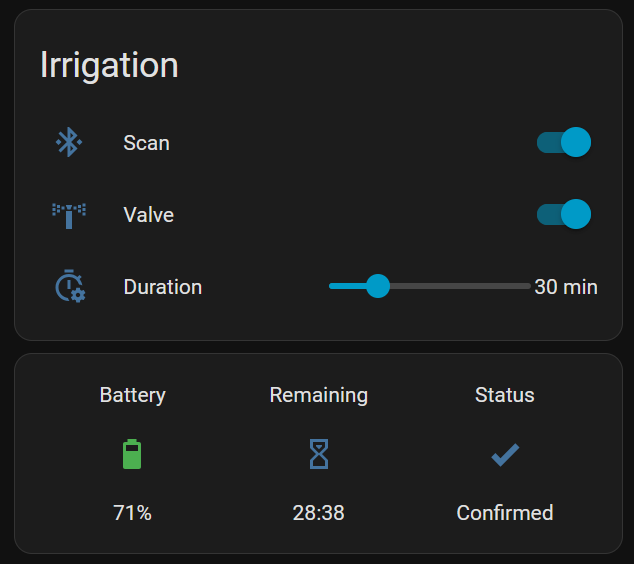
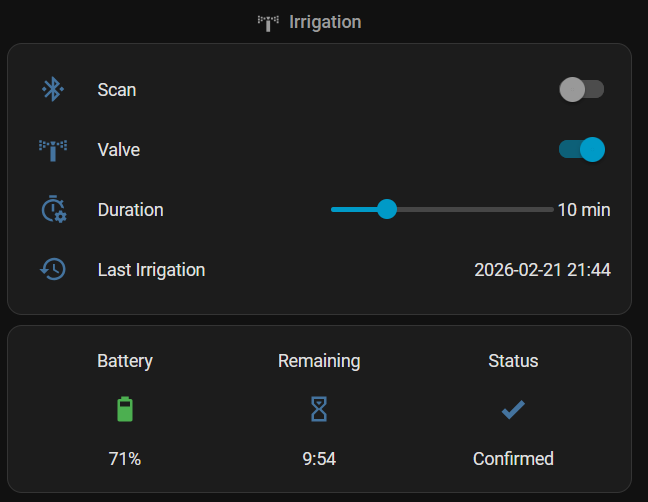
last duration

diff --git a/custom_components/galcon_bt/coordinator.py b/custom_components/galcon_bt/coordinator.py
@@ -44,6 +44,12 @@ class GalconCoordinator(DataUpdateCoordinator[GalconStatus]):
         self._base_interval = scan_interval or DEFAULT_SCAN_INTERVAL
         self.duration_minutes: int = 20  # overridden by NumberEntity on setup
 
+        # Last irrigation tracking
+        self.last_irrigation_start: datetime | None = None
+        self.last_irrigation_duration_min: int | None = None
+        self._current_irrigation_start: datetime | None = None
+        self._current_irrigation_duration: int = 0
+
         # Operation state tracking for UI feedback
         self.operation_state: OperationState = OperationState.IDLE
         self._state_listeners: list = []
@@ -131,6 +137,24 @@ class GalconCoordinator(DataUpdateCoordinator[GalconStatus]):
                 f"Cannot reach Galcon device (no cached state): {err}"
             ) from err
 
+    def _record_irrigation_start(self, duration_minutes: int) -> None:
+        """Record the start of an irrigation session."""
+        self._current_irrigation_start = dt_util.now()
+        self._current_irrigation_duration = duration_minutes
+
+    def _record_irrigation_end(self) -> None:
+        """Finalize the last irrigation record."""
+        if self._current_irrigation_start is not None:
+            self.last_irrigation_start = self._current_irrigation_start
+            self.last_irrigation_duration_min = self._current_irrigation_duration
+            self._current_irrigation_start = None
+            _LOGGER.info(
+                "Galcon %s: irrigation recorded — %s for %d min",
+                self.device.address,
+                self.last_irrigation_start.strftime("%Y-%m-%d %H:%M"),
+                self.last_irrigation_duration_min,
+            )
+
     async def async_open_valve(
         self, hours: int = 0, minutes: int = 0, seconds: int = 0
     ) -> None:
@@ -156,6 +180,7 @@ class GalconCoordinator(DataUpdateCoordinator[GalconStatus]):
                     raw=self._last_known_status.raw if self._last_known_status else b"",
                     battery_level=self._last_known_status.battery_level if self._last_known_status else None,
                 )
+            self._record_irrigation_start(hours * 60 + minutes + (1 if seconds else 0))
             self.async_set_updated_data(self._last_known_status)
         except (ConnectionError, Exception):
             self._set_operation_state(OperationState.ERROR)
@@ -168,6 +193,7 @@ class GalconCoordinator(DataUpdateCoordinator[GalconStatus]):
             self._set_operation_state(OperationState.CLOSING)
             real_status = await self.device.close_valve()
             self._set_operation_state(OperationState.CONFIRMED)
+            self._record_irrigation_end()
             if real_status:
                 self._last_known_status = real_status
             else:
@@ -195,6 +221,7 @@ class GalconCoordinator(DataUpdateCoordinator[GalconStatus]):
             "Galcon %s: irrigation timer expired — marking valve closed and disabling scanning",
             self.device.address,
         )
+        self._record_irrigation_end()
         self._last_known_status = GalconStatus(
             valve_open=False,
             manual_open=False,

diff --git a/custom_components/galcon_bt/sensor.py b/custom_components/galcon_bt/sensor.py
@@ -49,6 +49,7 @@ async def async_setup_entry(
         GalconOperationSensor(coordinator, name, address),
         GalconTimeRemainingSensor(coordinator, name, address),
         GalconBatterySensor(coordinator, name, address),
+        GalconLastIrrigationSensor(coordinator, name, address),
     ])
 
 
@@ -292,3 +293,56 @@ class GalconBatterySensor(CoordinatorEntity[GalconCoordinator], SensorEntity):
     def available(self) -> bool:
         """Available once we have at least one battery reading."""
         return self._cached_battery is not None
+
+
+class GalconLastIrrigationSensor(CoordinatorEntity[GalconCoordinator], SensorEntity):
+    """Sensor showing when the last irrigation occurred and for how long.
+
+    Displays the date/time of the most recent irrigation session.
+    Duration is available as an extra attribute.
+    """
+
+    _attr_has_entity_name = True
+    _attr_icon = "mdi:history"
+
+    def __init__(
+        self,
+        coordinator: GalconCoordinator,
+        name: str,
+        address: str,
+    ) -> None:
+        """Initialize the last irrigation sensor."""
+        super().__init__(coordinator)
+        self._address = address
+        self._attr_name = "Last Irrigation"
+        self._attr_unique_id = (
+            f"galcon_bt_{address.replace(':', '_').lower()}_last_irrigation"
+        )
+        self._attr_device_info = {
+            "identifiers": {(DOMAIN, address)},
+            "name": name,
+            "manufacturer": "Galcon",
+            "model": "9001BT",
+            "connections": {("bluetooth", address)},
+        }
+
+    @property
+    def native_value(self) -> str | None:
+        """Return the start time of the last irrigation as a readable timestamp."""
+        start = self.coordinator.last_irrigation_start
+        if start is None:
+            return None
+        return start.strftime("%Y-%m-%d %H:%M")
+
+    @property
+    def extra_state_attributes(self) -> dict[str, Any]:
+        """Return duration of the last irrigation."""
+        attrs: dict[str, Any] = {}
+        if self.coordinator.last_irrigation_duration_min is not None:
+            attrs["duration_minutes"] = self.coordinator.last_irrigation_duration_min
+        return attrs
+
+    @property
+    def available(self) -> bool:
+        """Available once at least one irrigation has been recorded."""
+        return self.coordinator.last_irrigation_start is not None

diff --git a/README.md b/README.md
@@ -2,15 +2,19 @@
 
 A custom Home Assistant integration for the **Galcon 9001BT** Bluetooth irrigation controller.
 
+![Dashboard Screenshot](docs/screenshot.png)
+
 ## Features
 
 - **Open / Close valve** from the HA dashboard
-- **Configurable irrigation duration** — default set during setup, adjustable via dashboard slider (1–120 min)
+- **Configurable irrigation duration** — default set during setup, adjustable via dashboard slider (0–40 min)
 - **Battery level** sensor (read from device)
 - **Time remaining** countdown with live 1-second ticks
 - **Operation status** sensor (Idle, Connecting, Opening, Closing, Confirmed, Error)
 - **Auto-discovery** of Galcon devices via BLE scan (filters by `GL9001A` device name)
 - **Timed irrigation** service (`galcon_bt.open_valve_timed`)
+- **Last irrigation** sensor with date/time and duration
+- **Scheduling** via HA Schedule helper + automation (see below)
 
 ## Installation
 
@@ -36,9 +40,10 @@ Turn scanning on when you need live feedback, off when you don't.
 |--------|------|-------------|
 | `switch.<name>_scanning` | Switch | Toggle BLE scanning on/off |
 | `valve.<name>_valve` | Valve | Open/close the irrigation valve |
-| `number.<name>_duration` | Number | Irrigation duration slider (1–120 min) |
+| `number.<name>_duration` | Number | Irrigation duration slider (0–40 min) |
 | `sensor.<name>_battery` | Sensor | Battery level (%) — cached |
 | `sensor.<name>_time_remaining` | Sensor | Irrigation countdown (MM:SS) |
+| `sensor.<name>_last_irrigation` | Sensor | Last irrigation date/time + duration |
 | `sensor.<name>_status` | Sensor | Current operation phase |
 
 ## Dashboard Card
@@ -47,7 +52,6 @@ Turn scanning on when you need live feedback, off when you don't.
 type: vertical-stack
 cards:
   - type: entities
-    title: Irrigation
     show_header_toggle: false
     entities:
       - entity: switch.galcon_irrigation_scanning
@@ -58,6 +62,8 @@ cards:
         icon: mdi:sprinkler-variant
       - entity: number.galcon_irrigation_duration
         name: Duration
+      - entity: sensor.galcon_irrigation_last_irrigation
+        name: Last Irrigation
   - type: glance
     entities:
       - entity: sensor.galcon_irrigation_battery
@@ -66,6 +72,65 @@ cards:
         name: Remaining
       - entity: sensor.galcon_irrigation_status
         name: Status
+
 ```
 
-![Dashboard Screenshot](docs/screenshot.png)
+## Scheduling Irrigation
+
+The Galcon 9001BT has no on-device schedule accessible over BLE. Use Home Assistant's built-in **Schedule helper** and an automation to run irrigation on a recurring schedule.
+
+### 1. Create a Schedule Helper
+
+Go to **Settings → Devices & Services → Helpers → Create Helper → Schedule** and configure your desired days/times (e.g. every day at 06:00).
+
+Or add to `configuration.yaml`:
+
+```yaml
+schedule:
+  irrigation_schedule:
+    name: Irrigation Schedule
+    monday:
+      - from: "06:00:00"
+        to: "06:01:00"
+    tuesday:
+      - from: "06:00:00"
+        to: "06:01:00"
+    wednesday:
+      - from: "06:00:00"
+        to: "06:01:00"
+    thursday:
+      - from: "06:00:00"
+        to: "06:01:00"
+    friday:
+      - from: "06:00:00"
+        to: "06:01:00"
+    saturday:
+      - from: "06:00:00"
+        to: "06:01:00"
+    sunday:
+      - from: "06:00:00"
+        to: "06:01:00"
+```
+
+### 2. Create an Automation
+
+```yaml
+automation:
+  - alias: "Scheduled Irrigation"
+    trigger:
+      - platform: state
+        entity_id: schedule.irrigation_schedule
+        to: "on"
+    action:
+      - service: switch.turn_on
+        target:
+          entity_id: switch.galcon_irrigation_scanning
+      - delay: "00:00:05"
+      - service: valve.open_valve
+        target:
+          entity_id: valve.galcon_irrigation_valve
+```
+
+The valve will run for the duration set on the **Duration** slider. When time expires, the integration automatically marks the valve as closed and disables scanning to conserve battery.
+
+To see the next scheduled run, check **Settings → Automations** or add the schedule entity to your dashboard.
